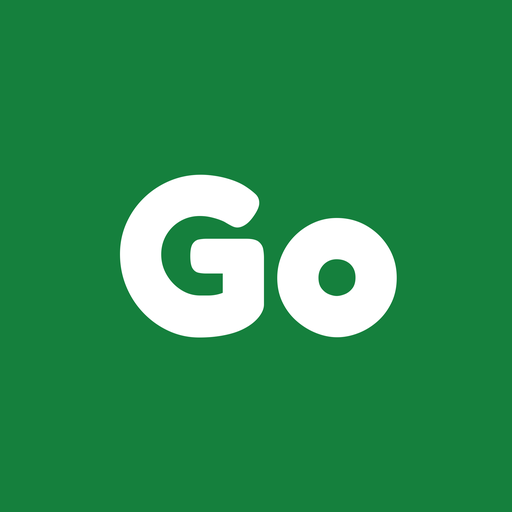
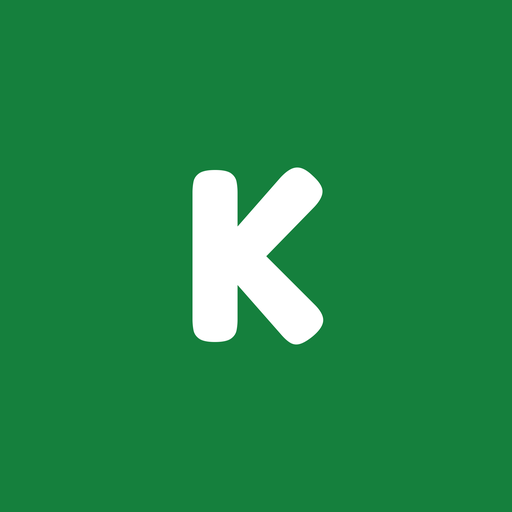
chore: rename app to Kelimeta and change package to com.kelimeta.app

Changed region(s): [[0.2188, 0.3125, 0.7812, 0.6875]]

diff --git a/app/lib/core/widgets/kelimeta_logo.dart b/app/lib/core/widgets/kelimeta_logo.dart
@@ -1,0 +1,141 @@
+import 'dart:math' as math;
+import 'package:flutter/material.dart';
+
+import '../theme/app_colors.dart';
+import '../theme/app_text_styles.dart';
+
+/// Kelimeta Logo
+/// "Kelime" (Fredoka 700, ink) + "ta" (Fredoka 700, primary).
+/// "ta" arkasında mint renkli, yuvarlatılmış, sağa bakan oynat (play) üçgeni.
+/// Üçgenin kenarlığı ve gölgesi yoktur. Logo eğik ya da döndürülmüş olmaz.
+class KelimetaLogo extends StatelessWidget {
+  final double fontSize;
+
+  const KelimetaLogo({
+    super.key,
+    this.fontSize = 64.0,
+  });
+
+  @override
+  Widget build(BuildContext context) {
+    return Semantics(
+      label: 'Kelimeta',
+      child: FittedBox(
+        fit: BoxFit.scaleDown,
+        child: Row(
+          mainAxisSize: MainAxisSize.min,
+          crossAxisAlignment: CrossAxisAlignment.center,
+          children: [
+            Text(
+              'Kelime',
+              style: TextStyle(
+                fontFamily: AppTextStyles.fontFredoka,
+                fontSize: fontSize,
+                fontWeight: FontWeight.w700,
+                color: AppColors.ink,
+                letterSpacing: -1.2,
+                height: 1.05,
+              ),
+            ),
+            SizedBox(width: fontSize * 0.02),
+            Stack(
+              alignment: Alignment.center,
+              clipBehavior: Clip.none,
+              children: [
+                Positioned.fill(
+                  child: CustomPaint(
+                    painter: _PlayTrianglePainter(color: AppColors.mint),
+                  ),
+                ),
+                Padding(
+                  padding: EdgeInsets.only(
+                    left: fontSize * 0.16,
+                    right: fontSize * 0.32,
+                    top: fontSize * 0.04,
+                    bottom: fontSize * 0.04,
+                  ),
+                  child: Text(
+                    'ta',
+                    style: TextStyle(
+                      fontFamily: AppTextStyles.fontFredoka,
+                      fontSize: fontSize,
+                      fontWeight: FontWeight.w700,
+                      color: AppColors.primary,
+                      letterSpacing: -1.2,
+                      height: 1.05,
+                    ),
+                  ),
+                ),
+              ],
+            ),
+          ],
+        ),
+      ),
+    );
+  }
+}
+
+class _PlayTrianglePainter extends CustomPainter {
+  final Color color;
+
+  const _PlayTrianglePainter({required this.color});
+
+  @override
+  void paint(Canvas canvas, Size size) {
+    final paint = Paint()
+      ..color = color
+      ..style = PaintingStyle.fill;
+
+    // Sağa bakan, köşeleri yuvarlatılmış oynat üçgeni
+    final p1 = const Offset(0, 0); // Üst-sol
+    final p2 = Offset(0, size.height); // Alt-sol
+    final p3 = Offset(size.width, size.height / 2); // Sağ uç
+
+    final path = _getRoundedTrianglePath([p1, p2, p3], 14.0);
+    canvas.drawPath(path, paint);
+  }
+
+  Path _getRoundedTrianglePath(List<Offset> points, double radius) {
+    final path = Path();
+    final count = points.length;
+
+    for (int i = 0; i < count; i++) {
+      final p1 = points[i];
+      final p2 = points[(i + 1) % count];
+      final p3 = points[(i + 2) % count];
+
+      final v1 = Offset(p1.dx - p2.dx, p1.dy - p2.dy);
+      final v2 = Offset(p3.dx - p2.dx, p3.dy - p2.dy);
+
+      final d1 = math.sqrt(v1.dx * v1.dx + v1.dy * v1.dy);
+      final d2 = math.sqrt(v2.dx * v2.dx + v2.dy * v2.dy);
+
+      final u1 = Offset(v1.dx / d1, v1.dy / d1);
+      final u2 = Offset(v2.dx / d2, v2.dy / d2);
+
+      final dot = u1.dx * u2.dx + u1.dy * u2.dy;
+      final angle = math.acos(dot.clamp(-1.0, 1.0));
+
+      final dist = radius / math.tan(angle / 2);
+
+      final startPt = Offset(p2.dx + u1.dx * dist, p2.dy + u1.dy * dist);
+      final endPt = Offset(p2.dx + u2.dx * dist, p2.dy + u2.dy * dist);
+
+      if (i == 0) {
+        path.moveTo(startPt.dx, startPt.dy);
+      } else {
+        path.lineTo(startPt.dx, startPt.dy);
+      }
+
+      path.quadraticBezierTo(p2.dx, p2.dy, endPt.dx, endPt.dy);
+    }
+
+    path.close();
+    return path;
+  }
+
+  @override
+  bool shouldRepaint(covariant _PlayTrianglePainter oldDelegate) =>
+      color != oldDelegate.color;
+}
+

diff --git a/app/lib/features/profile/presentation/onboarding_nickname_screen.dart b/app/lib/features/profile/presentation/onboarding_nickname_screen.dart
@@ -5,7 +5,7 @@ import '../../../core/strings/app_strings.dart';
 import '../../../core/theme/app_colors.dart';
 import '../../../core/theme/app_dimens.dart';
 import '../../../core/theme/app_text_styles.dart';
-import '../../../core/widgets/kelime_go_logo.dart';
+import '../../../core/widgets/kelimeta_logo.dart';
 import '../../../core/widgets/primary_button.dart';
 import '../application/profile_notifier.dart';
 import '../domain/nickname_validator.dart';
@@ -14,7 +14,7 @@ import '../domain/nickname_validator.dart';
 ///
 /// docs/DESIGN.md ve Faz 5.1 kurallarına uygun olarak:
 /// - Zemin `surface`, logo ortalı,
-/// - "Hoş Geldin!" ve "KelimeGo’da seni nasıl çağıralım?",
+/// - "Hoş Geldin!" ve "Kelimeta’da seni nasıl çağıralım?",
 /// - Tek satır giriş alanı (kart zemin, 3 px ink kenarlık, köşe 18),
 /// - Anlık doğrulama ve hata mesajı gösterimi,
 /// - Karakter sayacı (en fazla 16),
@@ -109,7 +109,7 @@ class _OnboardingNicknameScreenState
               mainAxisAlignment: MainAxisAlignment.center,
               crossAxisAlignment: CrossAxisAlignment.stretch,
               children: [
-                const Center(child: KelimeGoLogo()),
+                const Center(child: KelimetaLogo()),
                 const SizedBox(height: AppDimens.space24),
 
                 Text(

diff --git a/app/test/features/home/presentation/home_screen_test.dart b/app/test/features/home/presentation/home_screen_test.dart
@@ -5,7 +5,7 @@ import 'package:flutter_test/flutter_test.dart';
 import 'package:app/core/strings/app_strings.dart';
 import 'package:app/core/theme/app_colors.dart';
 import 'package:app/core/widgets/coin_pill.dart';
-import 'package:app/core/widgets/kelime_go_logo.dart';
+import 'package:app/core/widgets/kelimeta_logo.dart';
 import 'package:app/core/widgets/match_card.dart';
 import 'package:app/core/widgets/primary_button.dart';
 import 'package:app/core/widgets/result_badge.dart';
@@ -81,7 +81,7 @@ void main() {
     expect(find.text('100'), findsOneWidget);
 
     // Logo & Slogan
-    expect(find.byType(KelimeGoLogo), findsOneWidget);
+    expect(find.byType(KelimetaLogo), findsOneWidget);
     expect(find.text(AppStrings.slogan), findsOneWidget);
 
     // Ana ve İkincil butonlar

diff --git a/app/lib/features/home/presentation/home_screen.dart b/app/lib/features/home/presentation/home_screen.dart
@@ -10,7 +10,7 @@ import '../../../core/theme/app_dimens.dart';
 import '../../../core/theme/app_text_styles.dart';
 import '../../../core/widgets/app_icon_button.dart';
 import '../../../core/widgets/coin_pill.dart';
-import '../../../core/widgets/kelime_go_logo.dart';
+import '../../../core/widgets/kelimeta_logo.dart';
 import '../../../core/widgets/match_card.dart';
 import '../../../core/widgets/player_avatar.dart';
 import '../../../core/widgets/primary_button.dart';
@@ -168,7 +168,7 @@ class HomeScreen extends ConsumerWidget {
 
               // 2. Logo ve Slogan
               const Center(
-                child: KelimeGoLogo(),
+                child: KelimetaLogo(),
               ),
               const SizedBox(height: AppDimens.space8),
               Center(

diff --git a/app/lib/main.dart b/app/lib/main.dart
@@ -31,18 +31,18 @@ Future<void> main() async {
     authError = e.toString();
   }
 
-  runApp(ProviderScope(child: KelimeGoApp(authError: authError)));
+  runApp(ProviderScope(child: KelimetaApp(authError: authError)));
 }
 
-class KelimeGoApp extends StatelessWidget {
+class KelimetaApp extends StatelessWidget {
   final String? authError;
 
-  const KelimeGoApp({super.key, this.authError});
+  const KelimetaApp({super.key, this.authError});
 
   @override
   Widget build(BuildContext context) {
     return MaterialApp(
-      title: 'Kelime Go',
+      title: 'Kelimeta',
       debugShowCheckedModeBanner: false,
       theme: AppTheme.lightTheme,
       home: MainShell(initialAuthError: authError),

diff --git a/app/test/widget_test.dart b/app/test/widget_test.dart
@@ -14,10 +14,10 @@ void main() {
     });
   });
 
-  testWidgets('KelimeGoApp smoke test - verifies navigation and gallery load', (
+  testWidgets('KelimetaApp smoke test - verifies navigation and gallery load', (
     WidgetTester tester,
   ) async {
-    await tester.pumpWidget(const ProviderScope(child: KelimeGoApp()));
+    await tester.pumpWidget(const ProviderScope(child: KelimetaApp()));
     await tester.pumpAndSettle();
 
     // Ana ekrandaki Hızlı Maç butonu ve alt gezinme sekmelerinin varlığını doğrula

diff --git a/app/lib/core/strings/app_strings.dart b/app/lib/core/strings/app_strings.dart
@@ -163,7 +163,7 @@ abstract final class AppStrings {
 
   // Profil ve Onboarding
   static const String welcomeTitle = 'Hoş Geldin!';
-  static const String welcomePrompt = 'KelimeGo’da seni nasıl çağıralım?';
+  static const String welcomePrompt = 'Kelimeta’da seni nasıl çağıralım?';
   static const String nicknameHint = 'Takma adın';
   static const String nicknameRuleHint = '3–16 karakter. Harf, rakam ve alt çizgi.';
   static const String continueAction = 'Devam';

diff --git a/app/lib/firebase_options.dart b/app/lib/firebase_options.dart
@@ -51,7 +51,7 @@ class DefaultFirebaseOptions {
 
   static const FirebaseOptions android = FirebaseOptions(
     apiKey: 'AIzaSyAPjo3v1tyuaygWby29Pmz2CY7zeefnBXU',
-    appId: '1:487342637535:android:29c6a45eeda5f0e0e3846a',
+    appId: '1:487342637535:android:675fe7436355823ee3846a',
     messagingSenderId: '487342637535',
     projectId: 'kelimegov2',
     databaseURL: 'https://kelimegov2-default-rtdb.europe-west1.firebasedatabase.app',

diff --git a/app/lib/core/widgets/app_widgets.dart b/app/lib/core/widgets/app_widgets.dart
@@ -11,7 +11,7 @@ export 'secondary_button.dart';
 export 'section_label.dart';
 export 'result_circle.dart';
 export 'coin_pill.dart';
-export 'kelime_go_logo.dart';
+export 'kelimeta_logo.dart';
 export 'match_card.dart';
 export 'connection_banner.dart';
 

diff --git a/app/android/app/src/main/kotlin/com/kelimeta/app/MainActivity.kt b/app/android/app/src/main/kotlin/com/kelimeta/app/MainActivity.kt
@@ -1,5 +1,6 @@
-package com.kelimego.app
+package com.kelimeta.app
 
 import io.flutter.embedding.android.FlutterActivity
 
 class MainActivity : FlutterActivity()
+
